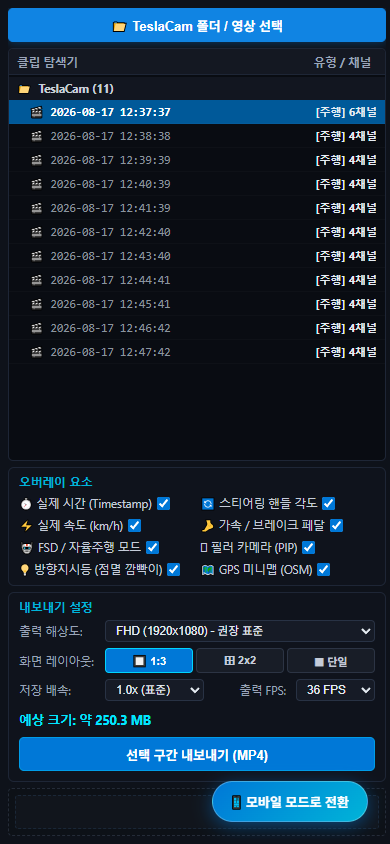
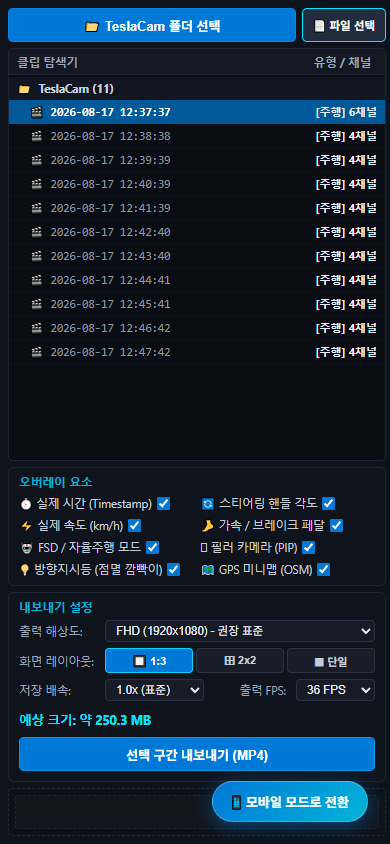
feat: add native webkitdirectory fallback for remote/HTTP PCs and support file selection button

Changed region(s): [[0.0615, 0.0, 1.0, 0.0616]]

diff --git a/src/main.ts b/src/main.ts
@@ -327,29 +327,54 @@ class CTDashcamStudioApp {
     tierModal?.addEventListener('click', (e) => {
       if (e.target === tierModal) closeTierModal();
     });
-    // 1. Open Folder Button & Fallback Input
+    // 1. Open Folder / Files Buttons & Fallback Inputs
     const btnOpenFolder = document.getElementById('btn-open-folder');
-    const fallbackInput = document.getElementById('fallback-file-input') as HTMLInputElement;
+    const btnOpenFiles = document.getElementById('btn-open-files');
+    const fallbackFolderInput = document.getElementById('fallback-folder-input') as HTMLInputElement;
+    const fallbackFileInput = document.getElementById('fallback-file-input') as HTMLInputElement;
 
     btnOpenFolder?.addEventListener('click', async () => {
-      if ('showDirectoryPicker' in window) {
+      // 1) 보안 컨텍스트(HTTPS or localhost)에서 File System Access API 지원 시 우선 사용
+      if ('showDirectoryPicker' in window && (window.isSecureContext || window.location.hostname === 'localhost' || window.location.hostname === '127.0.0.1')) {
         try {
           const dirHandle = await (window as any).showDirectoryPicker();
           const files = await scanFileSystemDirectory(dirHandle);
           this.loadFiles(files);
+          return;
         } catch (e: any) {
-          if (e.name !== 'AbortError') {
-            fallbackInput.click();
+          if (e.name === 'AbortError') {
+            return; // 사용자가 취소함
           }
+          console.warn('showDirectoryPicker failed, falling back to folder input:', e);
         }
-      } else {
-        fallbackInput.click();
+      }
+
+      // 2) 다른 컴퓨터(HTTP 원격 접속 등)나 구형 브라우저에서는 HTML5 표준 webkitdirectory 폴더 선택 창 실행
+      if (fallbackFolderInput) {
+        fallbackFolderInput.value = '';
+        fallbackFolderInput.click();
+      } else if (fallbackFileInput) {
+        fallbackFileInput.value = '';
+        fallbackFileInput.click();
       }
     });
 
-    fallbackInput?.addEventListener('change', () => {
-      if (fallbackInput.files && fallbackInput.files.length > 0) {
-        this.loadFiles(Array.from(fallbackInput.files));
+    btnOpenFiles?.addEventListener('click', () => {
+      if (fallbackFileInput) {
+        fallbackFileInput.value = '';
+        fallbackFileInput.click();
+      }
+    });
+
+    fallbackFolderInput?.addEventListener('change', () => {
+      if (fallbackFolderInput.files && fallbackFolderInput.files.length > 0) {
+        this.loadFiles(Array.from(fallbackFolderInput.files));
+      }
+    });
+
+    fallbackFileInput?.addEventListener('change', () => {
+      if (fallbackFileInput.files && fallbackFileInput.files.length > 0) {
+        this.loadFiles(Array.from(fallbackFileInput.files));
       }
     });
 

diff --git a/index.html b/index.html
@@ -48,9 +48,17 @@
 
           <!-- 1-1. 클립 목록 섹션 (모바일 탭: clips) -->
           <div class="sidebar-section mobile-tab-section active" data-mobile-tab="clips">
-            <button id="btn-open-folder" class="btn btn-folder-load">
-              📁 TeslaCam 폴더 / 영상 선택
-            </button>
+            <div class="load-btn-group">
+              <button id="btn-open-folder" class="btn btn-folder-load" title="TeslaCam 폴더 지정 (권장)">
+                📁 TeslaCam 폴더 선택
+              </button>
+              <button id="btn-open-files" class="btn btn-folder-load-sub" title="개별 MP4 파일 직접 선택">
+                📄 파일 선택
+              </button>
+            </div>
+            <!-- 폴더 선택 전용 인풋 (다른 PC / HTTP 접속 환경 지원) -->
+            <input type="file" id="fallback-folder-input" webkitdirectory directory multiple style="display: none;" />
+            <!-- 개별 파일 선택 전용 인풋 -->
             <input type="file" id="fallback-file-input" multiple accept="video/mp4,video/*" style="display: none;" />
 
             <!-- 클립 탐색기 테이블 -->

diff --git a/src/style.css b/src/style.css
@@ -68,8 +68,15 @@ body {
   box-sizing: border-box;
 }
 
-.btn-folder-load {
+.load-btn-group {
+  display: flex;
+  gap: 6px;
   width: 100%;
+  flex-shrink: 0;
+}
+
+.btn-folder-load {
+  flex: 1;
   height: 34px;
   background-color: var(--accent-blue);
   color: #ffffff;
@@ -83,12 +90,37 @@ body {
   justify-content: center;
   gap: 6px;
   transition: all 0.15s ease;
-  flex-shrink: 0;
+  white-space: nowrap;
 }
 
 .btn-folder-load:hover {
   background-color: #1084e3;
   box-shadow: 0 0 10px rgba(0, 120, 215, 0.45);
+}
+
+.btn-folder-load-sub {
+  height: 34px;
+  padding: 0 10px;
+  background-color: #161c28;
+  color: #c9d4e5;
+  font-size: 11.5px;
+  font-weight: 600;
+  border: 1px solid #28374f;
+  border-radius: 5px;
+  cursor: pointer;
+  display: flex;
+  align-items: center;
+  justify-content: center;
+  gap: 4px;
+  transition: all 0.15s ease;
+  white-space: nowrap;
+  flex-shrink: 0;
+}
+
+.btn-folder-load-sub:hover {
+  background-color: #222c3f;
+  color: #ffffff;
+  border-color: var(--accent-cyan);
 }
 
 /* 1-1. 클립 목록 섹션 (PC 데스크톱: 남은 공간 차지 & 내부 탐색기만 스크롤) */
